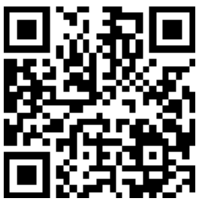
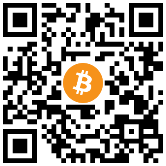
Update bitcoin address

diff --git a/src/site/components/Donate/Donate.tsx b/src/site/components/Donate/Donate.tsx
@@ -78,7 +78,7 @@ export const Donate = () => {
 
         <li>
           <CopyToClipboard
-            text="3DztnDvY7McQ7zwGS8Vjafsbc1ee1HDAmE"
+            text="14iqQcwYPLBceRURHuFosGTDXxMmt3cLDp"
             onCopy={handleCopy}
           >
             <button

diff --git a/README.md b/README.md
@@ -1,7 +1,7 @@
 # Gerador e Validador de CPF ![Open Source Love](https://badges.frapsoft.com/os/v3/open-source.svg)
 
 <p align="right">
-  <code>CURTIU ? Deixe um <a href="https://github.com/tiagoporto/gerador-validador-cpf/stargazers">⭐</a> : <a href="https://github.com/tiagoporto/gerador-validador-cpf/issues">😞</a></code>
+  CURTIU ? Deixe um <a href="https://github.com/tiagoporto/gerador-validador-cpf/stargazers">⭐</a> : <a href="https://github.com/tiagoporto/gerador-validador-cpf/issues">😞</a>
 </p>
 
 [![Release](https://img.shields.io/npm/v/gerador-validador-cpf.svg?style=flat-square&label=release)](https://github.com/tiagoporto/gerador-validador-cpf/releases)
@@ -64,9 +64,8 @@ validate('123.456.789-00')
 
 ## Doações
 
-[![Donate](https://img.shields.io/badge/donate-PayPal-blue.svg)](https://www.paypal.com/cgi-bin/webscr?cmd=_donations&business=YTDUQ8RZ2G4Q8&lc=BR&item_name=tiagoporto&item_number=geradorcpf&currency_code=BRL&bn=PP%2dDonationsBF:btn_donateCC_LG%2egif:NonHosted)
-
-<!-- ![Donate](https://img.shields.io/badge/bitcoin-3DztnDvY7McQ7zwGS8Vjafsbc1ee1HDAmE-yellow.svg?logo=bitcoin) -->
+[![Donate](https://img.shields.io/badge/PayPal-blue?logo=paypal)](https://www.paypal.com/cgi-bin/webscr?cmd=_donations&business=YTDUQ8RZ2G4Q8&lc=BR&item_name=tiagoporto&item_number=geradorcpf&currency_code=BRL&bn=PP%2dDonationsBF:btn_donateCC_LG%2egif:NonHosted)
+![Donate](https://img.shields.io/badge/bitcoin-14iqQcwYPLBceRURHuFosGTDXxMmt3cLDp-yellow.svg?logo=bitcoin)
 
 ## Licença
 

diff --git a/README-en.md b/README-en.md
@@ -1,7 +1,7 @@
 # Gerador e Validador de CPF ![Open Source Love](https://badges.frapsoft.com/os/v3/open-source.svg)
 
 <p align="right">
-  <code>LIKED ? Leave a <a href="https://github.com/tiagoporto/gerador-validador-cpf/stargazers">⭐</a> : <a href="https://github.com/tiagoporto/gerador-validador-cpf/issues">😞</a></code>
+  LIKED ? Leave a <a href="https://github.com/tiagoporto/gerador-validador-cpf/stargazers">⭐</a> : <a href="https://github.com/tiagoporto/gerador-validador-cpf/issues">😞</a>
 </p>
 
 [![Release](https://img.shields.io/npm/v/gerador-validador-cpf.svg?style=flat-square&label=release)](https://github.com/tiagoporto/gerador-validador-cpf/releases)
@@ -64,9 +64,8 @@ validate('123.456.789-00')
 
 ## Donation
 
-[![Donate](https://img.shields.io/badge/donate-PayPal-blue.svg)](https://www.paypal.com/cgi-bin/webscr?cmd=_donations&business=YTDUQ8RZ2G4Q8&lc=BR&item_name=tiagoporto&item_number=geradorcpf&currency_code=BRL&bn=PP%2dDonationsBF:btn_donateCC_LG%2egif:NonHosted)
-
-<!-- ![Donate](https://img.shields.io/badge/bitcoin-3DztnDvY7McQ7zwGS8Vjafsbc1ee1HDAmE-yellow.svg?logo=bitcoin) -->
+[![Donate](https://img.shields.io/badge/PayPal-blue?logo=paypal)](https://www.paypal.com/cgi-bin/webscr?cmd=_donations&business=YTDUQ8RZ2G4Q8&lc=BR&item_name=tiagoporto&item_number=geradorcpf&currency_code=BRL&bn=PP%2dDonationsBF:btn_donateCC_LG%2egif:NonHosted)
+![Donate](https://img.shields.io/badge/bitcoin-14iqQcwYPLBceRURHuFosGTDXxMmt3cLDp-yellow.svg?logo=bitcoin)
 
 ## License
 
